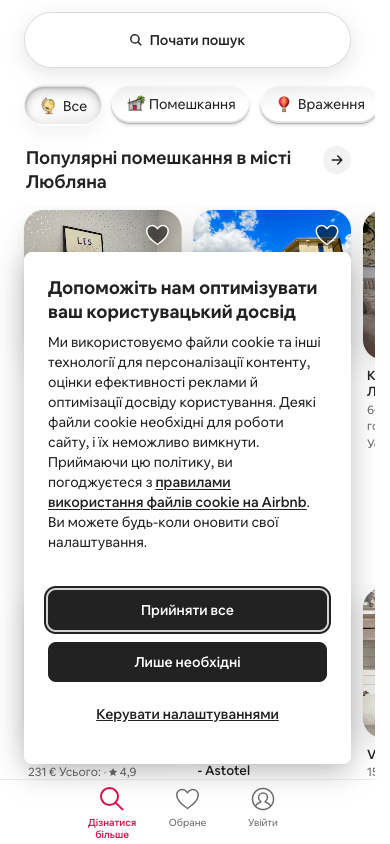
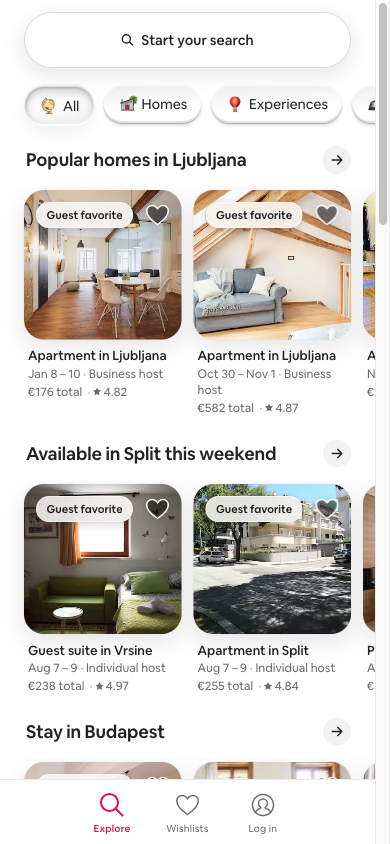
Фікс №3: перезняті чотири скріни з правильною локаллю, Google Maps — уже не cookie-стіна
Раніше Airbnb, GetYourGuide, Booking.com і Google Maps автоматично редіректнули на українські локалі, бо браузер геолокований поза цільовим ринком — тобто скріни показували не той вигляд продукту, який бачить наша аудиторія.

- Перезняті з англійською локаллю (вона й є нашою лінзою за CLAUDE.md §6). GetYourGuide і Booking запамʼятовували локаль у куках — довелося чистити; на всіх чотирьох закриті cookie-банери, що перекривали контент
- Google Maps: пройдено консент, тому замість публічного cookie-екрану тепер знята сама карта з механізмом, який ми цитуємо — категорійні чіпи, погода, трафік, кнопка Layers. Файл перейменовано на googlemaps--map-layers--mobile.png, старий видалено
- Гео лишається хорватським: IP без проксі не змінити. Задокументовано як залишкове обмеження — Airbnb рекомендує Любляну/Спліт, Google Maps центрує на Загребі, тож як вигляд шведського ринку ці скріни читати не можна
- screens/INDEX.md: розділ обмежень перебрано під новий стан; глибина (усі скріни — головні сторінки) лишається головним обмеженням вибірки

diff --git a/research/research.html b/research/research.html
@@ -331,7 +331,7 @@
           <tr><td><b>Wanderlog</b></td><td>Форвард імейлів → автозбір в один таймлайн</td><td>Freemium (AI/автоматизація — підписка)</td><td class="src"><a href="https://wanderlog.com/" target="_blank">wanderlog.com</a><br><code>wanderlog--home-search--mobile.png</code></td></tr>
           <tr><td><b>TripIt</b></td><td>Агрегатор підтверджень без ручного введення</td><td>TripIt Pro — підписка</td><td class="src">Живий сайт, 2026-08-03<br><code>tripit--home-search--mobile.png</code><br><span title="WebFetch timeout">опис — загальновідомі факти</span></td></tr>
           <tr><td><b>Booking.com</b></td><td>Instant confirmation, «Free cancellation»</td><td>Комісія від постачальника</td><td class="src">Живий сайт, 2026-08-03<br><code>bookingcom--home-search--mobile.png</code><br><span title="WebFetch порожній контент">опис — загальновідомі факти</span></td></tr>
-          <tr><td><b>Google Maps</b></td><td>Шари контексту (POI, погода, транспорт)</td><td>Реклама/екосистема Google</td><td class="src">Живий сайт, 2026-08-03<br><code>googlemaps--consent-access-limited--mobile.png</code><br><span class="limited">доступ обмежений — Trips/Layers за акаунтом</span></td></tr>
+          <tr><td><b>Google Maps</b></td><td>Категорійні чіпи, погода, трафік, кнопка Layers поверх карти</td><td>Реклама/екосистема Google</td><td class="src">Живий сайт, 2026-08-03<br><code>googlemaps--map-layers--mobile.png</code><br><span class="limited">персоналізований шар (Trips) за акаунтом</span></td></tr>
         </tbody>
       </table>
     </div>
@@ -340,7 +340,7 @@
       <figure><img src="screens/wanderlog--home-search--mobile.png" alt="Wanderlog" onclick="openLightbox(this.src)"><figcaption><b>Wanderlog</b><span>2026-08-03</span></figcaption></figure>
       <figure><img src="screens/tripit--home-search--mobile.png" alt="TripIt" onclick="openLightbox(this.src)"><figcaption><b>TripIt</b><span>2026-08-03</span></figcaption></figure>
       <figure><img src="screens/bookingcom--home-search--mobile.png" alt="Booking.com" onclick="openLightbox(this.src)"><figcaption><b>Booking.com</b><span>2026-08-03</span></figcaption></figure>
-      <figure><img src="screens/googlemaps--consent-access-limited--mobile.png" alt="Google Maps" onclick="openLightbox(this.src)"><figcaption><b>Google Maps</b><span class="limited">обмежено</span></figcaption></figure>
+      <figure><img src="screens/googlemaps--map-layers--mobile.png" alt="Google Maps" onclick="openLightbox(this.src)"><figcaption><b>Google Maps</b><span>2026-08-03</span></figcaption></figure>
     </div>
 
     <h3>Три спільні патерни ринку</h3>

diff --git a/research/screens/INDEX.md b/research/screens/INDEX.md
@@ -22,7 +22,7 @@
 | `wanderlog--home-search--mobile.png` | https://wanderlog.com/ | Аспіраційний | повна |
 | `tripit--home-search--mobile.png` | https://www.tripit.com/ | Аспіраційний | повна |
 | `bookingcom--home-search--mobile.png` | https://www.booking.com/ | Аспіраційний | екран |
-| `googlemaps--consent-access-limited--mobile.png` | https://www.google.com/maps | Аспіраційний | екран |
+| `googlemaps--map-layers--mobile.png` | https://www.google.com/maps?hl=en | Аспіраційний | екран |
 
 ## Бенчмарк ([`../benchmark.md`](../benchmark.md))
 
@@ -35,15 +35,17 @@
 
 ## Відомі обмеження цих скрінів
 
-**Доступ обмежений.** `googlemaps--consent-access-limited--mobile.png` — знято лише публічний cookie-консент. Глибший шар Trips/Layers за акаунтом Google, доступу немає.
+**Локаль — виправлено 2026-08-03.** Чотири сайти спершу автоматично редіректнули на українські локалі (`uk.airbnb.com`, `/uk-ua/`, `index.uk.html`, `hl=uk`), бо браузер геолокований поза цільовим ринком. Перезняті з англійською локаллю, яка й є нашою лінзою за `CLAUDE.md` §6 (мова v1 — англійська, аудиторія — міжнародні туристи):
 
-**Неправильна локаль — потребує перезняття.** Чотири сайти автоматично редіректнули на локалізовані версії, бо браузер геолокований поза цільовим ринком. Скріни показують не той вигляд продукту, який бачить наша аудиторія:
-
-| Файл | Фактичний URL після редіректу | Проблема |
+| Файл | URL перезняття | Як домоглися |
 |---|---|---|
-| `airbnb--home-search--mobile.png` | `uk.airbnb.com` | українська локаль |
-| `getyourguide--home-search--mobile.png` | `getyourguide.com/uk-ua/` | українська локаль |
-| `bookingcom--home-search--mobile.png` | `booking.com/index.uk.html` | українська локаль |
-| `googlemaps--consent-access-limited--mobile.png` | `consent.google.com/...gl=HR&hl=uk` | хорватське гео + українська локаль |
+| `airbnb--home-search--mobile.png` | `airbnb.com/?locale=en` | параметр локалі + закрито cookie-модалку («Only necessary») |
+| `getyourguide--home-search--mobile.png` | `getyourguide.com/en-gb/` | очищені куки локалі, бо сайт запамʼятовував попередній вибір; закрито банер («Only essential») |
+| `bookingcom--home-search--mobile.png` | `booking.com/index.en-gb.html?lang=en-gb&selected_currency=EUR` | явна локаль + валюта; закрито панель («Decline») |
+| `googlemaps--map-layers--mobile.png` | `google.com/maps?hl=en` | `hl=en` + пройдено консент («Reject all»), тому замість cookie-стіни тепер знята сама карта |
 
-**Глибина.** Усі скріни — вхідні/головні сторінки. Реальні флоу (пошук → лістинг → чекаут) не проходились, тому механізми, заявлені в таблицях аудиту (instant book, структура зручностей, підтвердження бронювання), цими скрінами **не підтверджені** — вони фіксують лише факт відвідування продукту.
+**Гео лишається хорватським — зняти не вдалося.** Мову інтерфейсу нав'язати можна, а IP-геолокацію без проксі — ні. Тому регіональні дефолти в цих скрінах не наші: Airbnb рекомендує Любляну/Спліт/Будапешт, Google Maps центрує карту на Загребі. На механізми, які ми цитуємо (структура картки, бейджі довіри, шари над картою), це не впливає, але як вигляд шведського ринку ці скріни читати не можна.
+
+**Доступ обмежений.** У Google Maps персоналізований шар (збережені місця, Trips) за акаунтом Google — не знімався. Публічна карта з категорійними чіпами, погодою, трафіком і кнопкою Layers доступна й знята.
+
+**Глибина — головне обмеження всієї вибірки.** Усі 19 скрінів — вхідні/головні сторінки. Реальні флоу (пошук → лістинг → чекаут) не проходились, тому механізми, заявлені в таблицях аудиту (instant book, структура зручностей, підтвердження бронювання), цими скрінами **не підтверджені** — вони фіксують факт відвідування продукту й вигляд входу, не роботу механізму.

diff --git a/research/research.md b/research/research.md
@@ -50,7 +50,7 @@
 | **Wanderlog** | Форвард імейлів бронювання → автозбір в один таймлайн | Freemium (AI/автоматизація — підписка) | [wanderlog.com](https://wanderlog.com/) — WebFetch + `screens/wanderlog--home-search--mobile.png`, 2026-08-03 |
 | **TripIt** | Агрегатор підтверджень у один таймлайн без ручного введення | TripIt Pro — підписка за алерти й трекінг миль | Живий сайт — `screens/tripit--home-search--mobile.png`, 2026-08-03. WebFetch — timeout, опис із загальновідомих публічних фактів |
 | **Booking.com** | Instant confirmation, «Free cancellation»/«No prepayment needed» | Комісія з бронювання від постачальника | Живий сайт — `screens/bookingcom--home-search--mobile.png`, 2026-08-03. WebFetch — порожній контент, опис із загальновідомих публічних фактів |
-| **Google Maps** | Шари контексту (POI, погода, транспорт) поверх карти | Не монетизує подорож напряму — реклама/екосистема Google | Живий сайт, консент-екран — `screens/googlemaps--consent-access-limited--mobile.png`, 2026-08-03. **Доступ обмежений**: глибший шар Trips/Layers за акаунтом Google, знято лише публічний вхід |
+| **Google Maps** | Шари контексту поверх карти: категорійні чіпи (Restaurants / Hotels / Things to do), погода, картка трафіку, кнопка Layers | Не монетизує подорож напряму — реклама/екосистема Google | Живий сайт — `screens/googlemaps--map-layers--mobile.png`, 2026-08-03. **Частково обмежений доступ**: персоналізований шар (збережені місця, Trips) за акаунтом Google; гео браузера — Хорватія, тому карта центрована на Загребі |
 
 ### Три спільні патерни ринку
 
